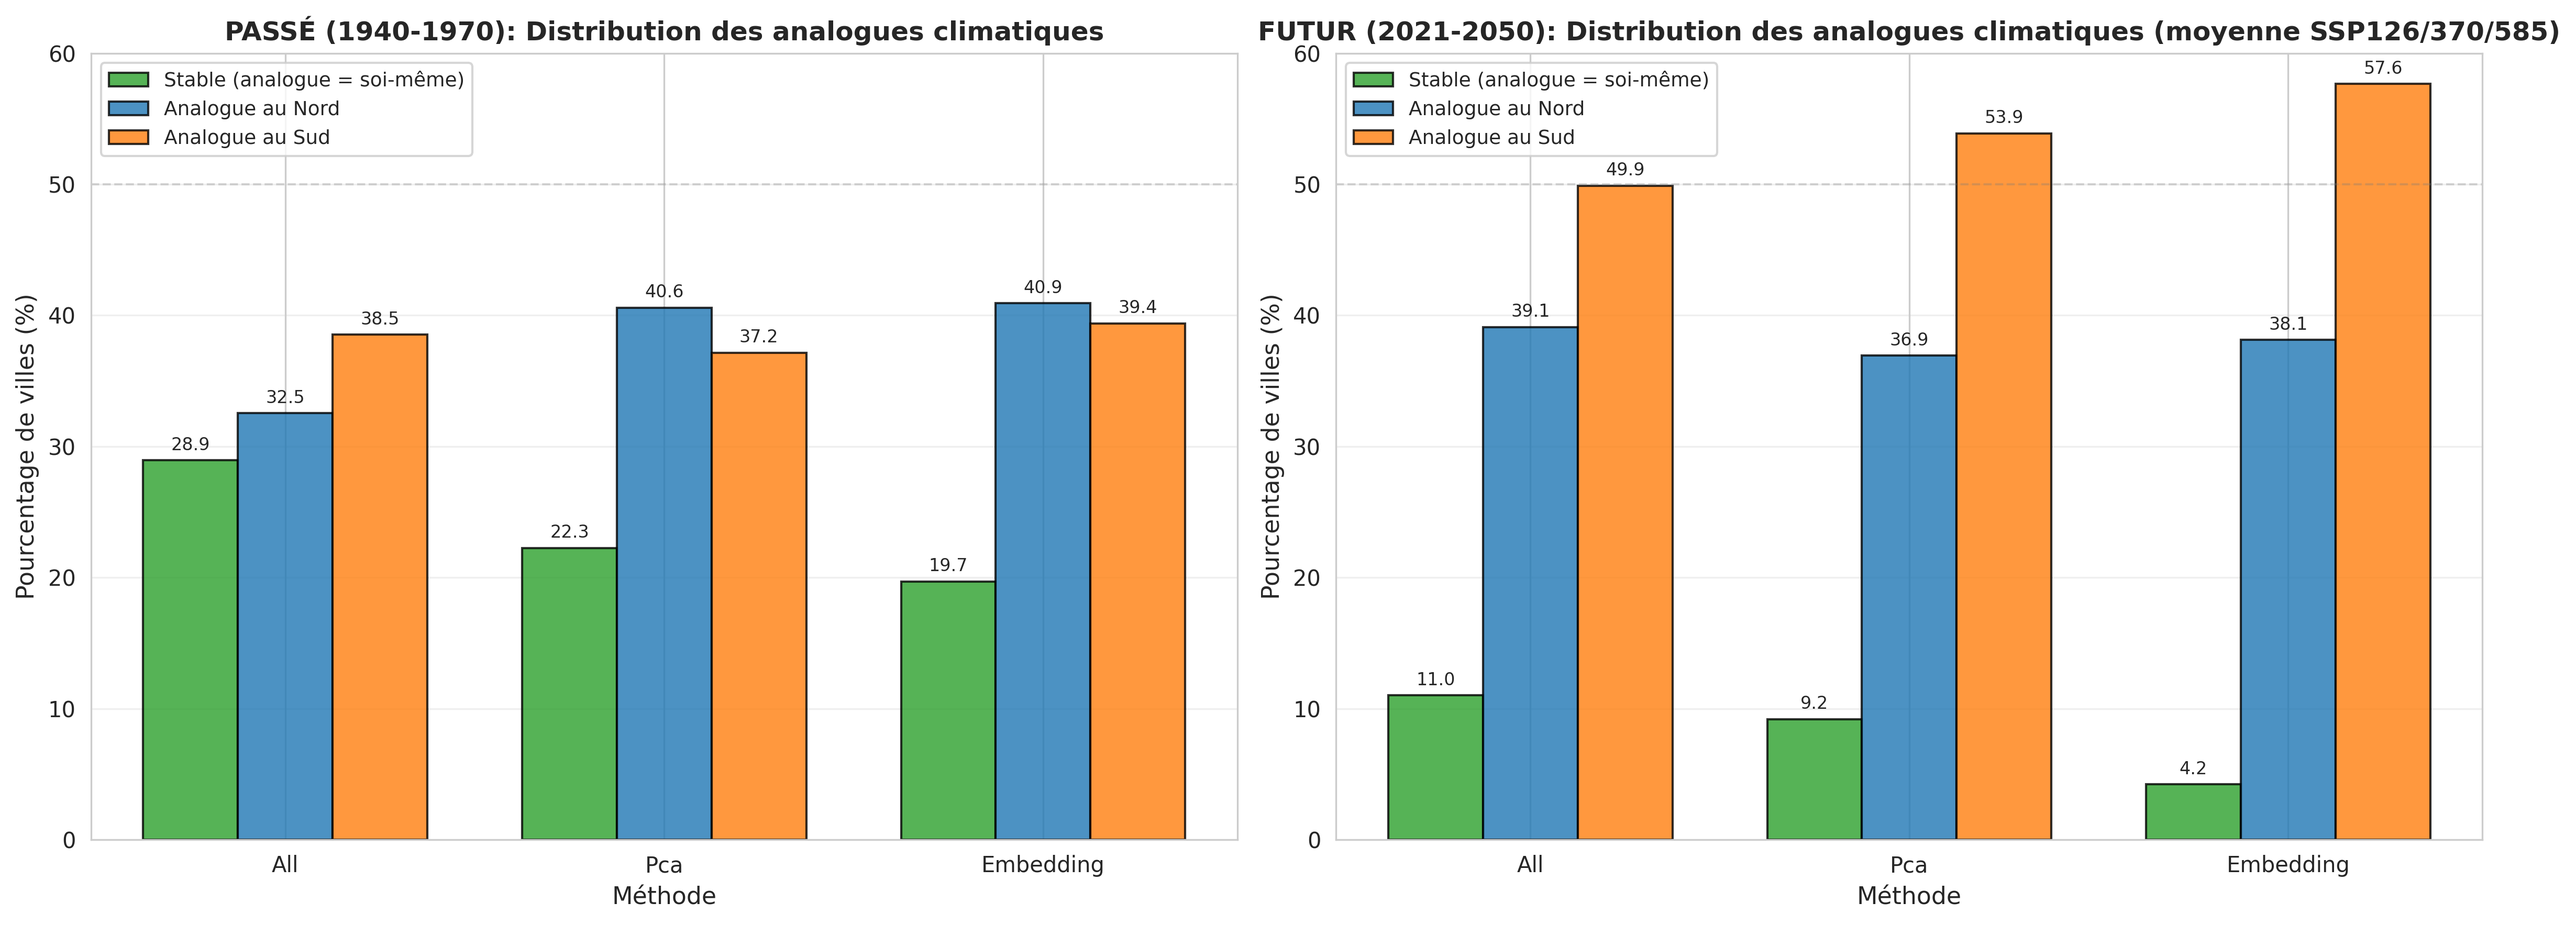
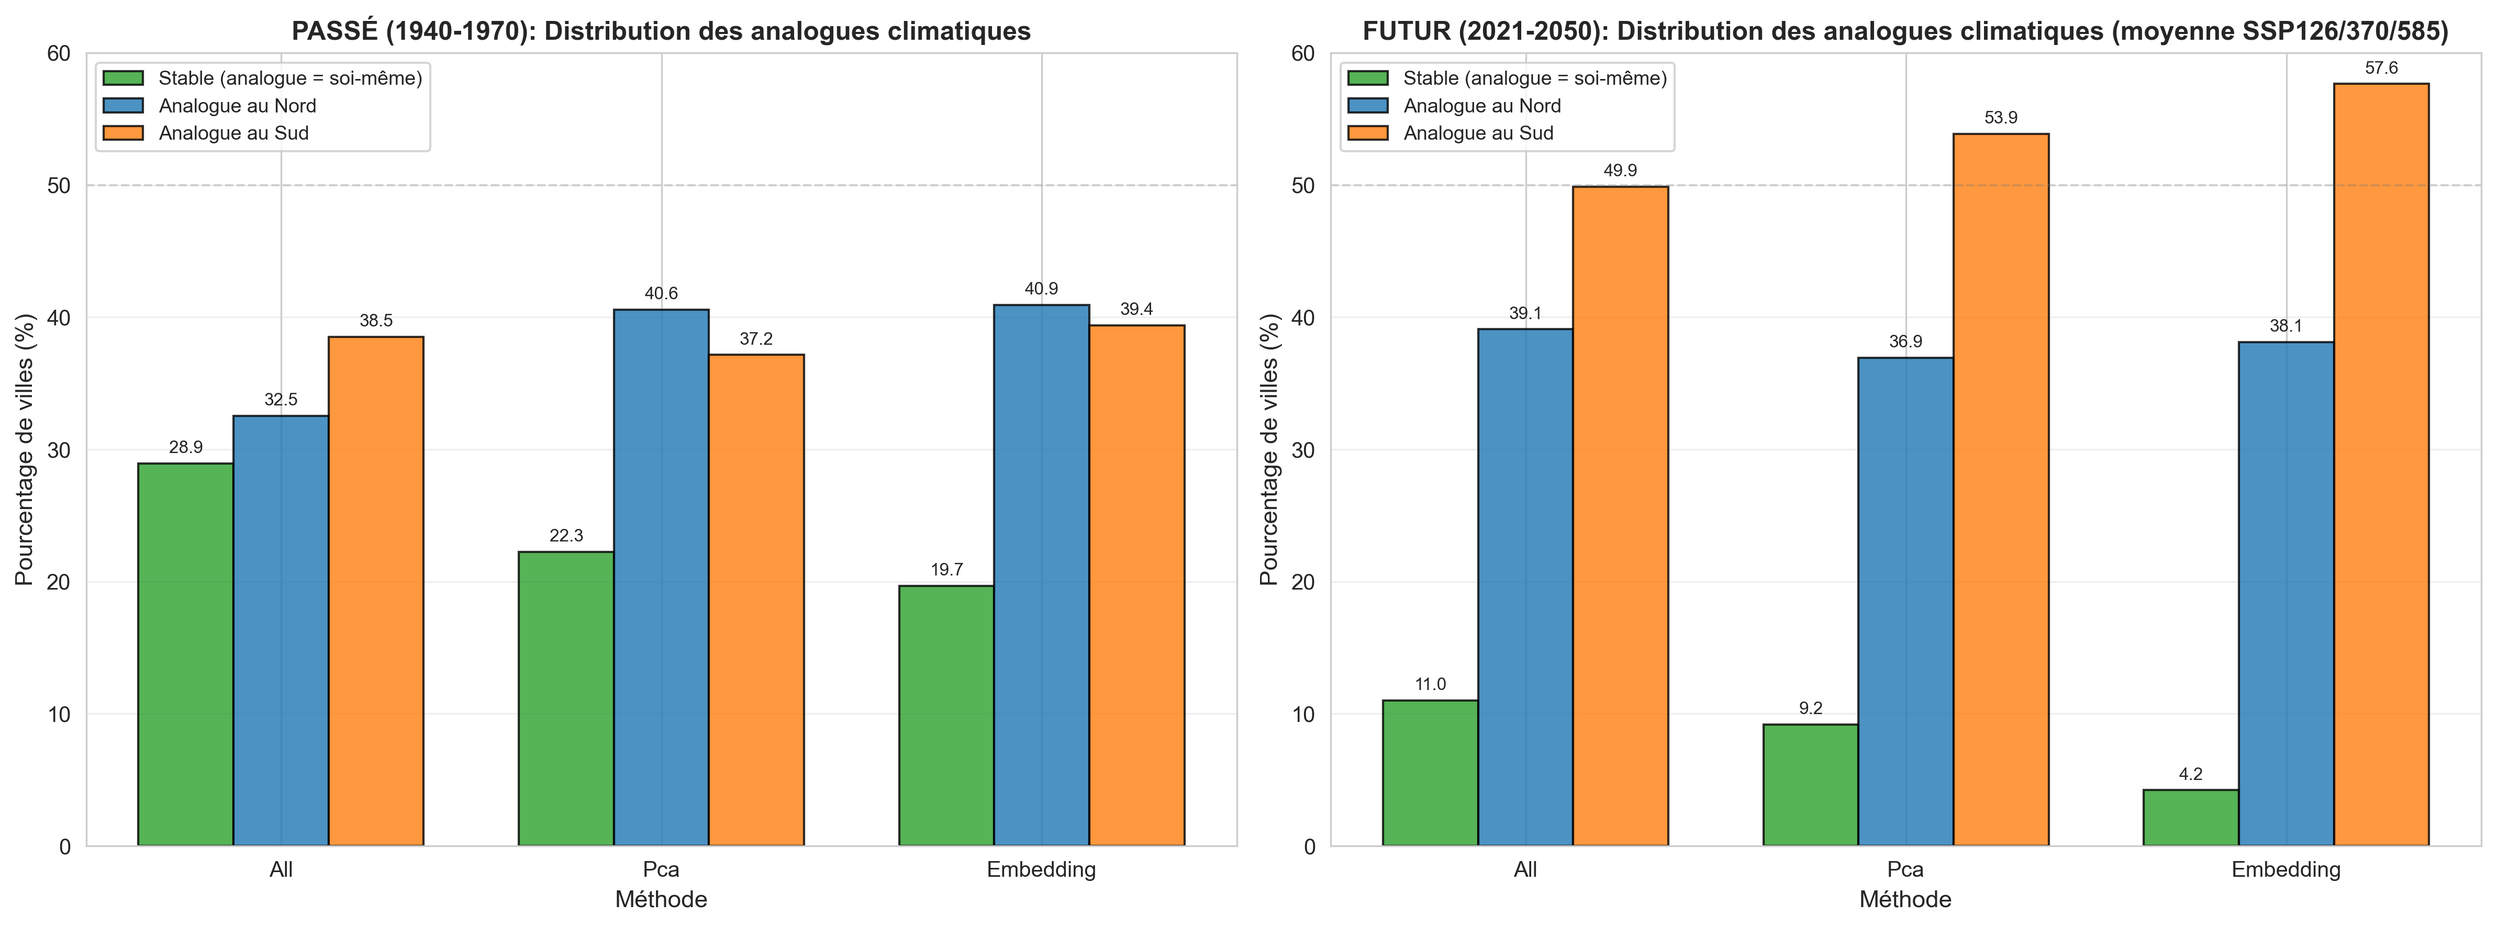
Finalize readme

diff --git a/README.md b/README.md
@@ -1,10 +1,47 @@
-# mlbd_projet
+# MLBD Project - Climate Analogs
+
+#### Authors: Eva Ray, Massimo Stefani, Abdellah Jahjah
+
+This project identifies climate analogues for European cities in 1970 (backward) and 2050 (forward). Each city is represented by a multidimensional climate vector built from seasonal averages of temperature, precipitation, and wind speed. Similarity between cities is computed using metrics such as Mahalanobis and Euclidean distances. The results are displayed on an interactive map that lets users explore which cities share comparable past or future climates.
 
 ## Notebooks
 
 - `extract_climate_features_historical.ipynb`: Notebook for extracting climate features from monthly historical data.
 - `extract_temperature_features_historical.ipynb`: Notebook for extracting temperature features from hourly historical data.
-- `extract_climate_features_future_30_years.ipynb`: Notebook for extracting climate features from future projections over a 30-year period.
+- `extract_climate_features_future.ipynb`: Notebook for extracting climate features from future projections.
+- `data_exploration.ipynb`: Notebook for exploring the extracted climate features.
 - `pca.ipynb`: Notebook for performing Principal Component Analysis (PCA) on the extracted features.
 - `climate_analogs.ipynb`: Notebook for identifying climate analogs based on the extracted features.
 - `encoder.ipynb`: Notebook for training and evaluating an encoder model on the climate data.
+- `result_analysis.ipynb`: Notebook to explore the results obtained for the climate analogs.
+
+> Note: The 3 extraction notebooks depend on raw climate data that is not included in this repository due to size constraints.
+
+## Launch Streamlit app
+
+You need python 3.10 or higher installed on your machine.
+
+1. Install the required packages:
+   ```bash
+   pip install -r requirements.txt
+   ```
+2. Launch the Streamlit app:
+   ```bash
+    streamlit run streamlit_app.py
+    ```
+
+At this point, a new tab should open in your default web browser displaying the interactive map of climate analogs. You can select the following parameters:
+- **Analogue year**: 1970 (backward) or 2050 (forward)
+- **Distance metric**: Mahalanobis or Euclidean
+- **Scenario for future predictions**: ssp126, ssp370, ssp585
+- **City**: Select a European city from the dropdown menu
+- **Number of analog cities**: Choose how many analog cities to display (in descending order of similarity)
+
+The map will update to show the selected city's location and its climate analogs based on the chosen parameters.
+
+![Streamlit App Screenshot](images/app_screenshot.png)
+
+Some metrics about the city and its analogs are also displayed below the map:
+
+![Streamlit App Screenshot](images/app_metrics.png)
+
